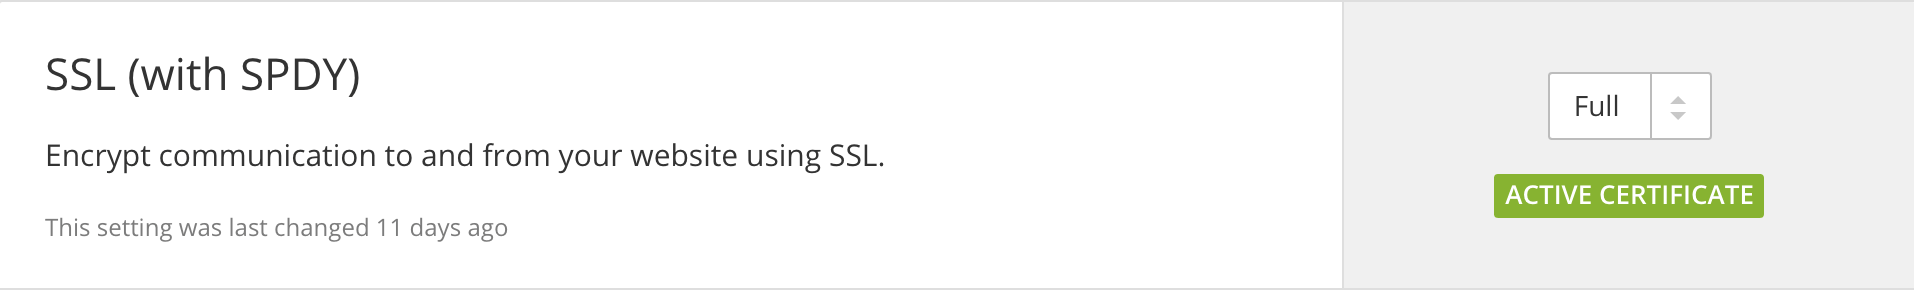
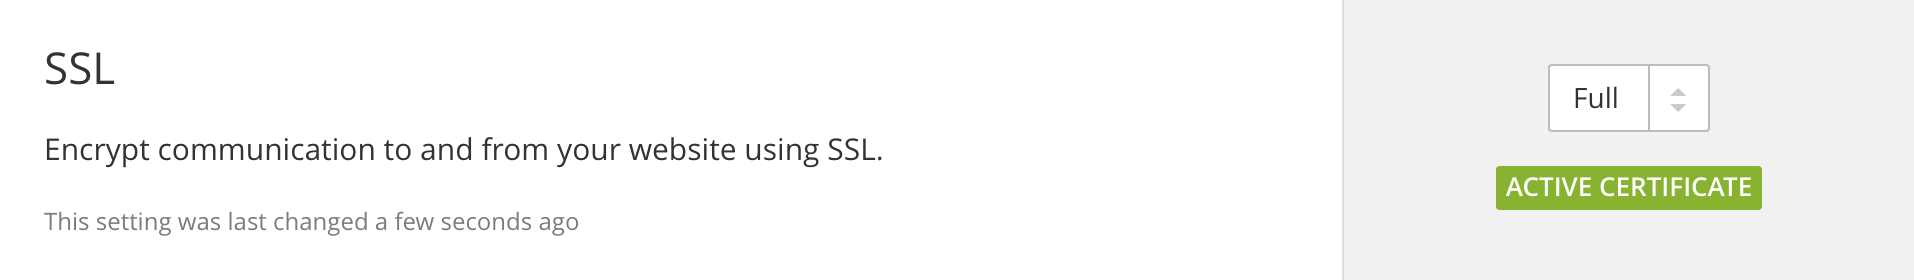
Adding HTTPS For Free With CloudFlare: Clarify Standardized Domain  - Note that www redirect service does not apply to HTTPS enabled sites, instruct users to standardize domain within `settings.php` or `wp-config.php` for clarity.  - Update screenshots / content to align with CloudFlare's UI

diff --git a/source/_docs/cloudflare-enable-https.md b/source/_docs/cloudflare-enable-https.md
@@ -37,19 +37,19 @@ As this example shows, you can set additional CNAME records for your Dev and Tes
 
 ## CloudFlare Security Settings
 
-The next step is to go to the "Crypto" page and enable the "SSL with SPDY" option and set it to **Full** protection mode:
+The next step is to go to the **Crypto** page and set the SSL option to **Full** protection mode:
 
 ![Enable SSL](/source/docs/assets/images/cloudflare-ssl.png)
 
 It takes a few minutes to go into effect as CloudFlare sets up a certificate for you. At the free level, the certificate they provide will be one that is also used for some other domains, but it will be a fully valid certificate.
 
-It's important to use __Full__ protection mode. Because Pantheon provides HTTPS service out of the box you can encrypt end-to-end, but because the certificate provided by Pantheon is for the sandbox domain you cannot use the "strict" mode:
+It's important to use __Full__ protection mode.  Pantheon provides HTTPS service out of the box so you can encrypt end-to-end, but because the certificate provided by Pantheon is for the default domain (e.g. `live-yoursite.pantheonsite.io`) you cannot use the __Full (strict)__ mode:
 
 ![SSL Details](/source/docs/assets/images/cloudflare-ssl-types.png)
 
-While "full" mode is not the highest security setting, it is available for free, and provides much better security for your website compared to "flexible" as the traffic is fully encrypted end-to-end.
+While __Full__ mode is not the highest security setting, it is available for free, and provides much better security for your website compared to __Flexible__ as the traffic is fully encrypted end-to-end.
 
-Customers wanting to use CloudFlare in "strict" mode can do so, but incurs additional costs: they must purchase their own certificate and upgrade their Pantheon site to the Professional service level.
+Customers wanting to use CloudFlare in __Full (strict)__ mode can do so, but incurs additional costs: they must purchase their own certificate and upgrade their Pantheon site to the Professional service level.
 
 ## Testing Under HTTPS
 
@@ -66,6 +66,8 @@ Another common issue is to have the site load incorrectly due to the presence of
 ## CMS Settings
 
 There are a few CMS-specific settings and techniques you'll want to be aware of when transitioning a site to run securely under HTTPS. As a best-practice, we recommend that you standardize on your production domain in addition to HTTPS to prevent confusion.
+
+Pantheon's www-redirection service does not apply to sites using HTTPS. You'll need to add logic within the site's `settings.php` or `wp-config.php` file in order to standardize on a domain.
 
 ### Drupal
 
@@ -135,11 +137,11 @@ You can find more about the power of WP-CLI's features at [wp-cli.org](http://wp
 
 The final step is to standardize all traffic under HTTPS. This is a much better option than running the site in a "mixed mode". It is less complex and more secure, and thanks to modern crypto technologies, there is no performance penalty.
 
-In order to go all-in, you will need to configure your site to redirect any requests that are unencrypted over to HTTPS. One way to do this is via CloudFlare's "Page Rules" feature:
+In order to go all-in, you will need to configure your site to redirect any requests that are unencrypted over to HTTPS. One way to do this is via CloudFlare's __Page Rules__ feature:
 
 ![CloudFlare Page Rules](/source/docs/assets/images/cloudflare-always-https.png)
 
-By setting up a blanket page rule to match all URLs and apply the "Always HTTPS" parameter, CloudFlare redirect browsers making HTTP requests to HTTPS.
+By setting up a blanket page rule to match all URLs and apply the __Always HTTPS__ parameter, CloudFlare redirect browsers making HTTP requests to HTTPS.
 
 You can also achieve this by writing your own redirection code into your `settings.php` or `wp-config.php`. Assuming you use one of the code blocks above which sets up a `$domain` parameter, the following should work for you:
 
